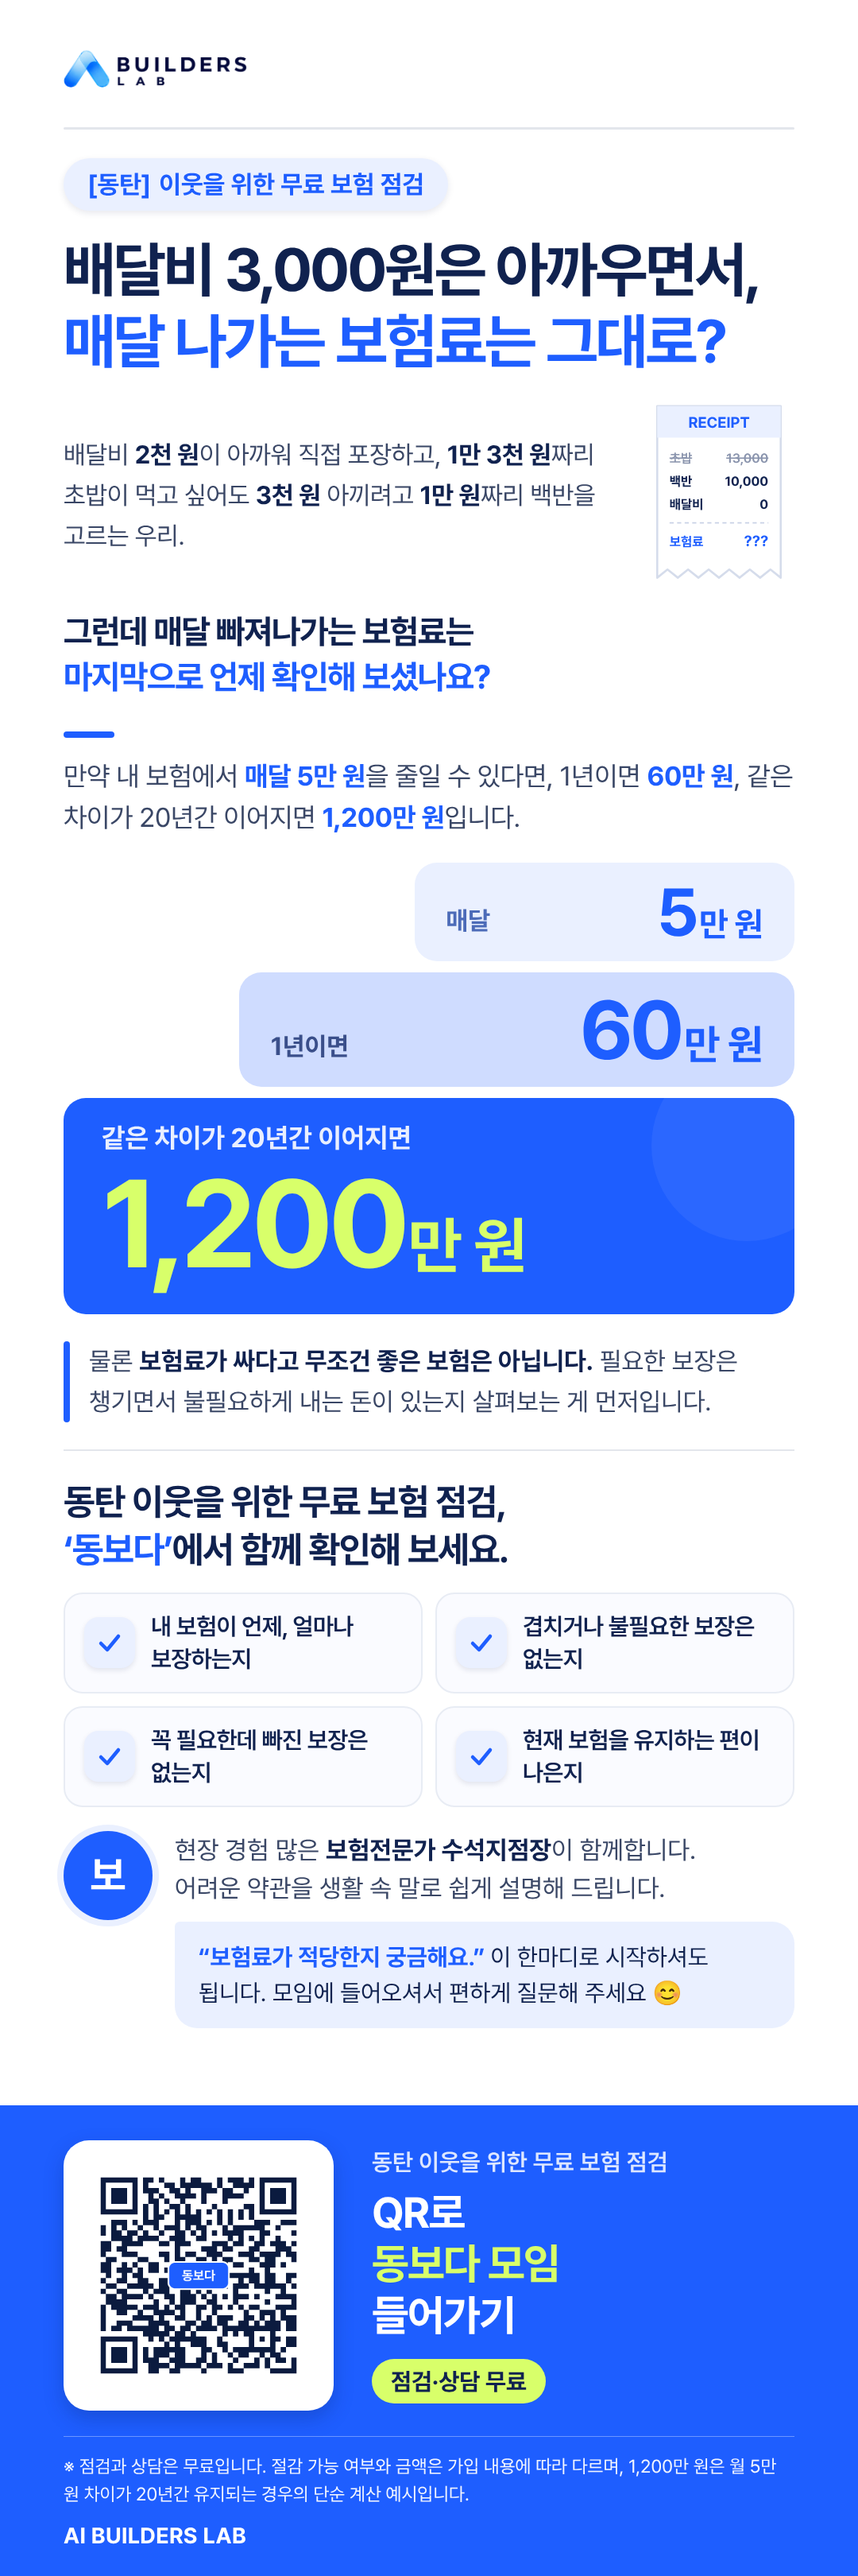
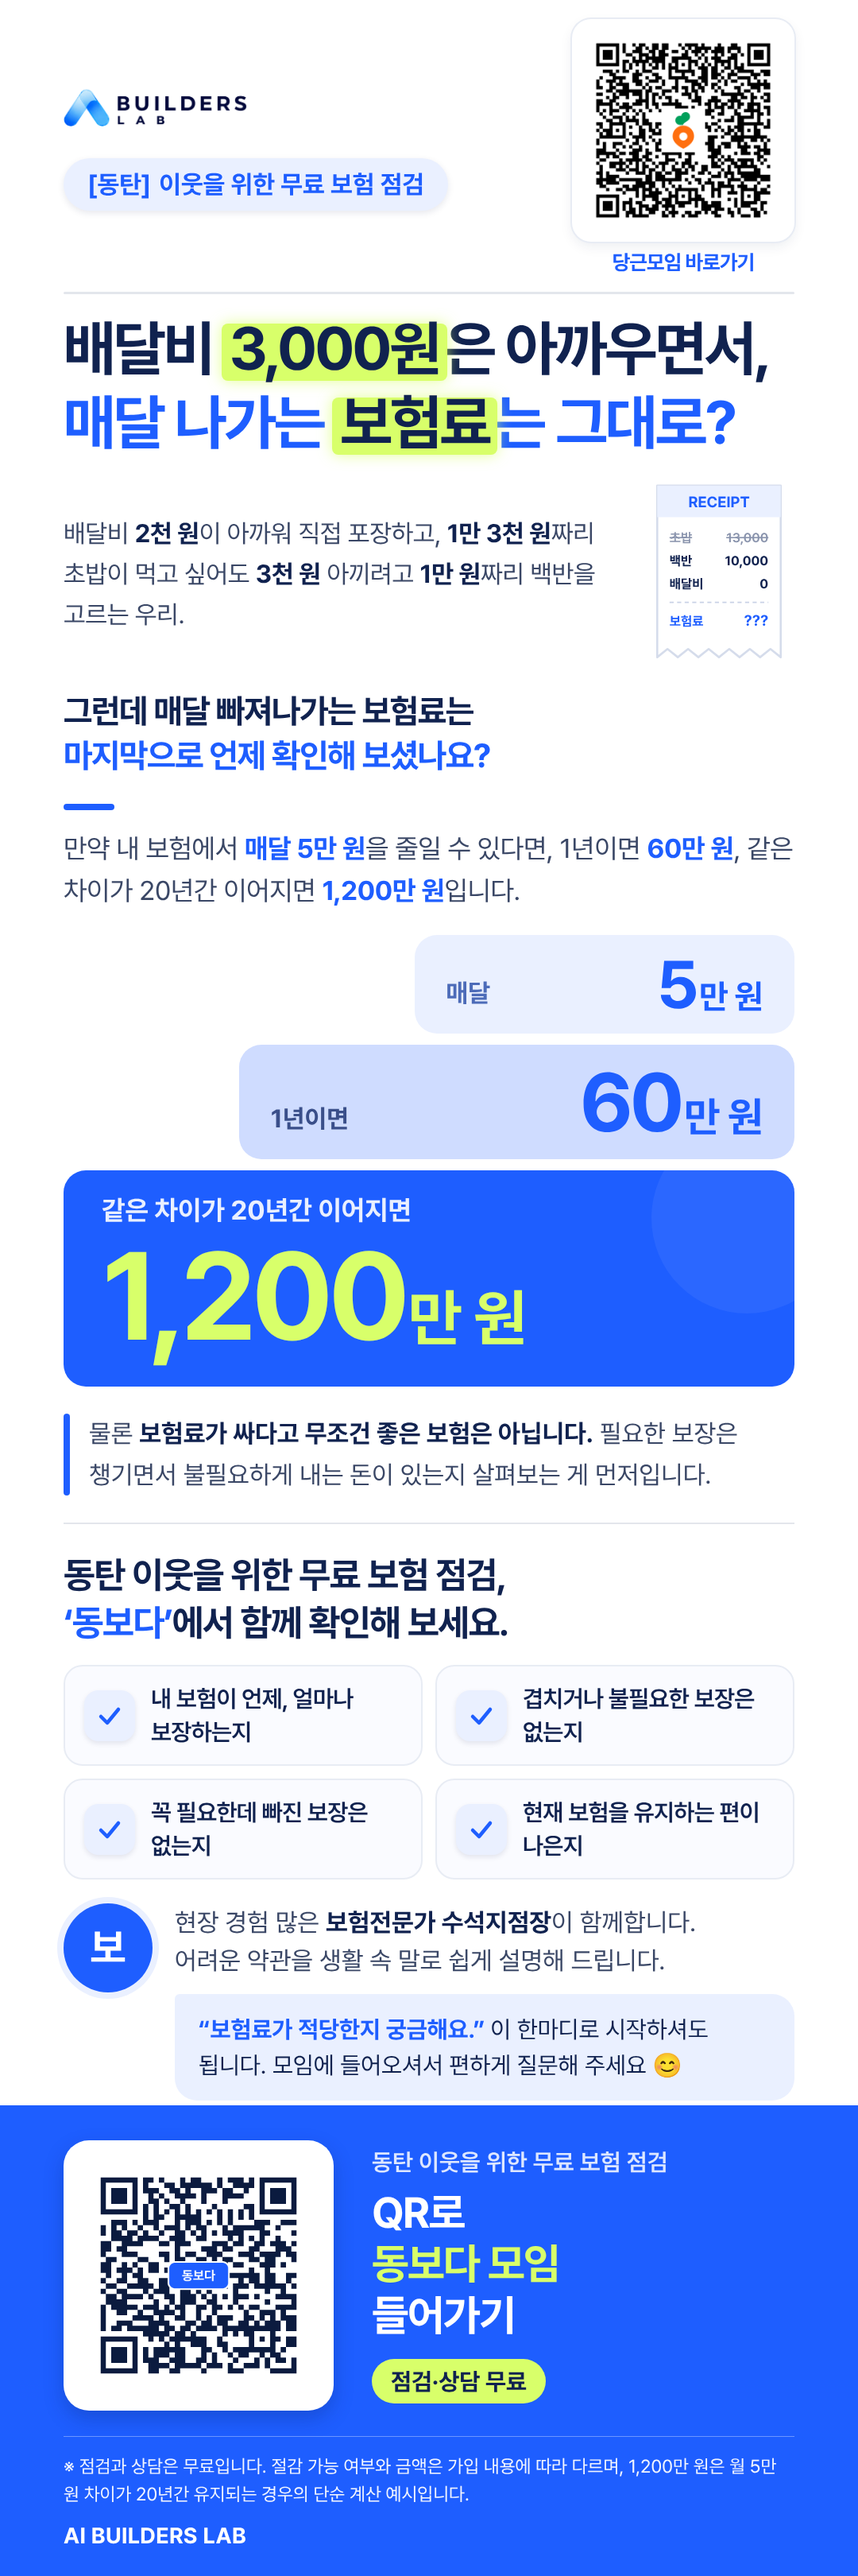
시안 A를 최종으로 확정하고, 상단에 당근모임 QR과 헤드라인 형광 강조를 추가

diff --git a/design/poster-A.html b/design/poster-A.html
@@ -18,27 +18,52 @@
   .lime { color: #D8FF6A; }
 
   /* header */
-  .header { padding-top: 56px; }
+  .header { padding-top: 24px; }
+  .header-row {
+    display: flex; align-items: center; justify-content: space-between;
+    gap: 28px;
+  }
+  .header-left { display: flex; flex-direction: column; align-items: flex-start; gap: 22px; min-width: 0; }
   .logo { height: 72px; display: block; }
-  .rule { height: 3px; background: #E3E6EC; margin-top: 32px; border-radius: 2px; }
+  .top-qr { flex: none; width: 280px; text-align: center; }
+  .top-qr-card {
+    background: #fff; padding: 16px; border-radius: 24px;
+    box-shadow: 0 0 0 2px #E8ECF4, 0 6px 16px rgba(16,34,79,.08);
+  }
+  .top-qr-card img { width: 248px; height: 248px; display: block; }
+  .top-qr-cap {
+    margin-top: 10px; font-size: 26px; font-weight: 800;
+    color: #1E5EFF; letter-spacing: -0.03em; line-height: 1.2;
+  }
+  .rule { height: 3px; background: #E3E6EC; margin-top: 22px; border-radius: 2px; }
 
   /* hero */
   .badge {
     display: inline-flex; align-items: center; gap: 10px;
-    margin-top: 36px; padding: 14px 30px; border-radius: 999px;
+    padding: 14px 30px; border-radius: 999px;
     background: #EAF0FF; color: #1E5EFF; font-size: 32px; font-weight: 700;
     box-shadow: 0 3px 8px rgba(16,34,79,.10);
   }
   .badge b { font-weight: 800; }
   .headline {
-    margin-top: 30px; font-size: 76px; font-weight: 800; line-height: 1.18;
+    margin-top: 22px; font-size: 76px; font-weight: 800; line-height: 1.22;
     letter-spacing: -0.04em; white-space: nowrap;
   }
   .nowrap { white-space: nowrap; }
+  .mark {
+    position: relative; z-index: 0; isolation: isolate;
+    color: #10224F; white-space: nowrap; padding: 0 0.08em;
+  }
+  .mark::before {
+    content: ""; position: absolute; z-index: -1;
+    left: -0.05em; right: -0.05em; top: 0.18em; bottom: 0.05em;
+    background: #D8FF6A; border-radius: 8px;
+    box-shadow: 0 0 18px rgba(216,255,106,.7);
+  }
   .bar { width: 64px; height: 8px; border-radius: 4px; background: #1E5EFF; }
 
   /* empathy */
-  .empathy { display: flex; gap: 40px; align-items: center; margin-top: 28px; }
+  .empathy { display: flex; gap: 40px; align-items: center; margin-top: 24px; }
   .empathy p { flex: 1; font-size: 32px; line-height: 1.6; color: #3A4766; letter-spacing: -0.01em; }
   .empathy p strong { color: #10224F; font-weight: 700; }
   .receipt { flex: 0 0 190px; height: 242px; }
@@ -48,7 +73,7 @@
   }
 
   /* numbers staircase */
-  .numbers { margin-top: 40px; }
+  .numbers { margin-top: 32px; }
   .lead { font-size: 34px; line-height: 1.55; color: #3A4766; letter-spacing: -0.01em; }
   .lead strong { color: #1E5EFF; font-weight: 800; }
   .steps { margin-top: 30px; display: flex; flex-direction: column; align-items: flex-end; gap: 14px; }
@@ -145,15 +170,24 @@
 
   <!-- header -->
   <div class="wrap header">
-    <img class="logo" src="../site/logo.png" alt="AI BUILDERS LAB">
+    <div class="header-row">
+      <div class="header-left">
+        <img class="logo" src="../site/logo.png" alt="AI BUILDERS LAB">
+        <div class="badge"><b>[동탄]</b> 이웃을 위한 무료 보험 점검</div>
+      </div>
+      <div class="top-qr">
+        <div class="top-qr-card">
+          <img src="../site/daangn-qr.png" width="248" height="248" alt="당근모임 바로가기 QR">
+        </div>
+        <p class="top-qr-cap">당근모임 바로가기</p>
+      </div>
+    </div>
     <div class="rule"></div>
+    <h1 class="headline">배달비 <span class="mark nowrap">3,000원</span>은 아까우면서,<br><span class="blue">매달 나가는 <span class="mark">보험료</span>는 그대로?</span></h1>
   </div>
 
-  <!-- hero -->
+  <!-- hero body -->
   <div class="wrap">
-    <div class="badge"><b>[동탄]</b> 이웃을 위한 무료 보험 점검</div>
-    <h1 class="headline">배달비 <span class="nowrap">3,000원</span>은 아까우면서,<br><span class="blue">매달 나가는 보험료는 그대로?</span></h1>
-
     <div class="empathy">
       <p>배달비 <strong>2천 원</strong>이 아까워 직접 포장하고, <strong>1만 3천 원</strong>짜리 초밥이 먹고 싶어도 <strong>3천 원</strong> 아끼려고 <strong>1만 원</strong>짜리 백반을 고르는 우리.</p>
       <!-- receipt illustration -->

diff --git a/banner/index.html b/banner/index.html
@@ -31,6 +31,10 @@
   .card h2 { font-size:18px; font-weight:800; margin:16px 4px 4px; }
   .card h2 span { color:var(--blue); }
   .card p { color:var(--sub); font-size:14px; margin:0 4px 16px; flex:1; }
+  .card.selected { border-color:var(--blue); box-shadow:0 0 0 2px var(--blue), 0 8px 24px rgba(30,94,255,.12); }
+  .final { display:inline-block; margin-left:8px; background:var(--lime); color:var(--navy);
+    font-style:normal; font-size:12px; font-weight:800; padding:3px 8px; border-radius:999px;
+    vertical-align:middle; letter-spacing:-0.02em; }
   .card .btn { width:100%; }
   .qr { margin-top:20px; display:flex; flex-direction:column; align-items:center; text-align:center; gap:12px; }
   .qr img { width:180px; height:180px; border-radius:12px; border:1px solid var(--line); }
@@ -54,16 +58,16 @@
     <img class="logo" src="../logo.png" alt="동보다">
     <span class="pill">배너 시안</span>
     <h1>동보다 <mark>포스터 시안</mark></h1>
-    <p class="lead">동탄 이웃 무료 보험 점검 · 1080×3240 (1:3)</p>
+    <p class="lead">동탄 이웃 무료 보험 점검 · 1080×3240 (1:3) · 시안 A 최종</p>
     <a class="btn btn-ghost" href="../">랜딩페이지 보기 →</a>
   </header>
 
   <main>
     <section class="grid">
-      <article class="card">
-        <a class="thumb" href="dongboda-poster-A.png" target="_blank" rel="noopener"><img src="dongboda-poster-A.png" alt="시안 A 숫자 계단형" loading="lazy"></a>
-        <h2><span>시안 A</span> · 숫자 계단형</h2>
-        <p>5만 → 60만 → 1,200만 원 계단 카드로 숫자를 강조합니다.</p>
+      <article class="card selected">
+        <a class="thumb" href="dongboda-poster-A.png" target="_blank" rel="noopener"><img src="dongboda-poster-A.png" alt="시안 A 최종 · 숫자 계단형" loading="lazy"></a>
+        <h2><span>시안 A</span> · 숫자 계단형 <em class="final">최종</em></h2>
+        <p>최종 시안. 5만 → 60만 → 1,200만 원 계단 카드로 숫자를 강조합니다.</p>
         <a class="btn btn-primary" href="dongboda-poster-A.png" download>PNG 다운로드</a>
       </article>
       <article class="card">
